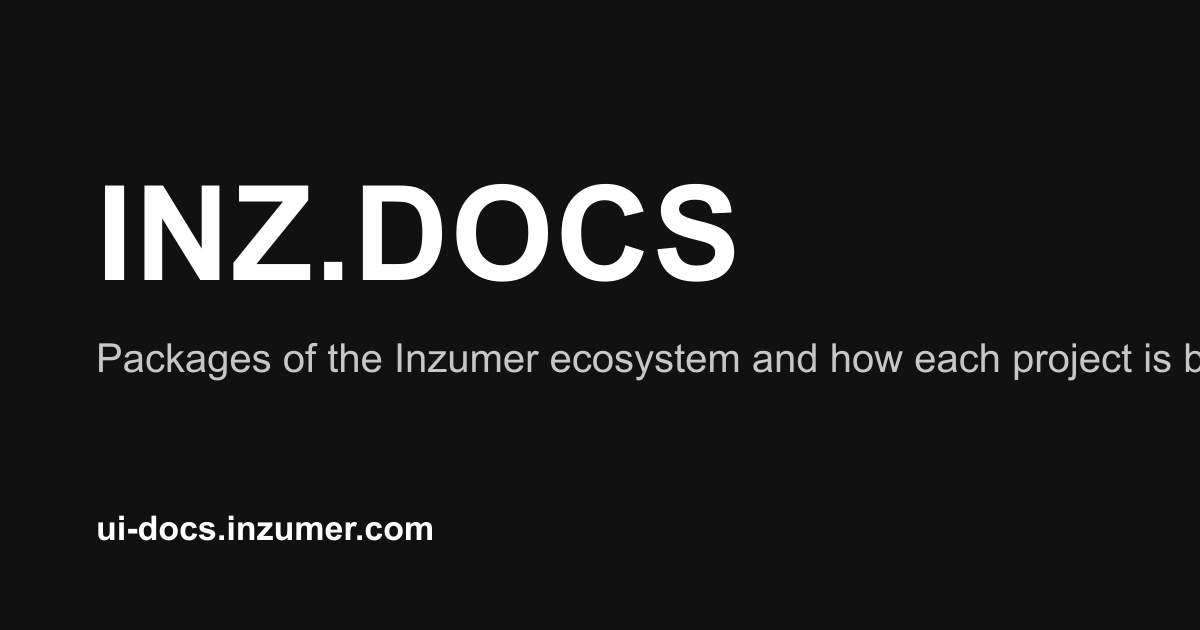
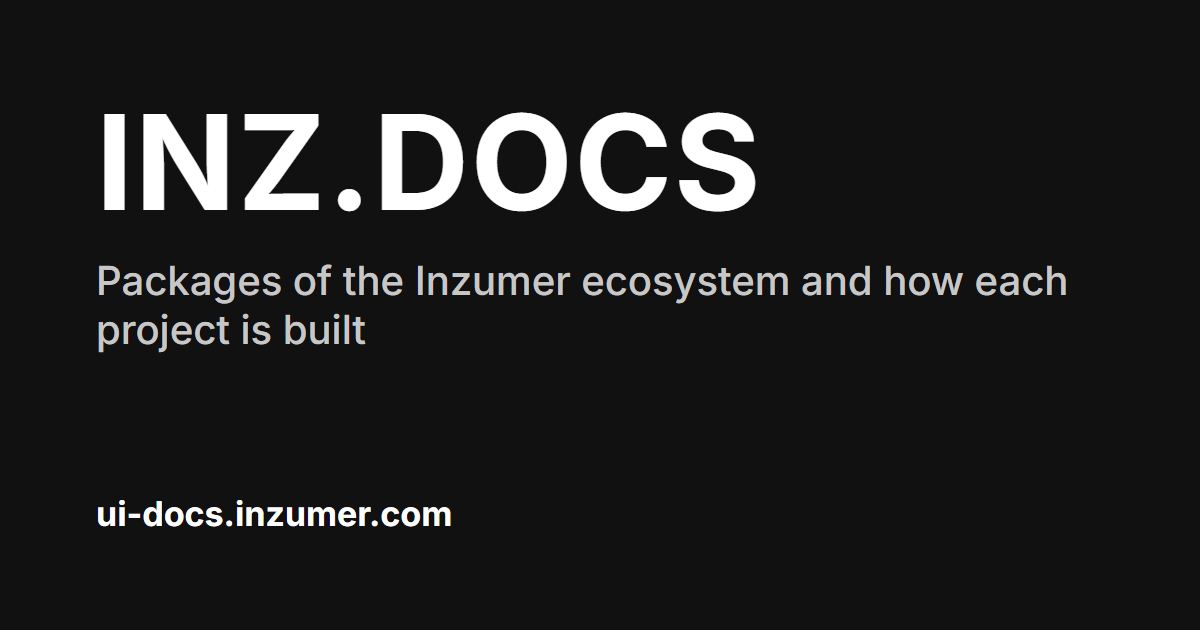
feat: Inter brand font, @inzumer/ci and package pages without consumers

Changed region(s): [[0.0617, 0.181, 1.0, 0.6032], [0.0617, 0.7841, 0.4008, 0.8746]]

diff --git a/src/styles/theme.css b/src/styles/theme.css
@@ -1,5 +1,7 @@
-/* Inzumer: black and white, like the INZ logos. The site title reads as the text logo. */
+/* Inzumer: black and white, like the INZ logos, in Inter like inzumer.com. The site title reads as
+   the text logo. */
 :root {
+  --sl-font: 'Inter', 'Helvetica Neue', Arial, sans-serif;
   --sl-color-accent-low: #2a2a2a;
   --sl-color-accent: #e5e5e5;
   --sl-color-accent-high: #ffffff;
@@ -16,7 +18,7 @@
   border-radius: 8px;
   background: #111111;
   color: #ffffff;
-  font-weight: 800;
+  font-weight: 700;
   letter-spacing: 0.5px;
 }
 

diff --git a/src/content/docs/proyectos/milimon.md b/src/content/docs/proyectos/milimon.md
@@ -7,8 +7,8 @@ Manual de estudio y calculadoras de costos para gastronomía.
 
 | Parte | Repositorio                                                             | Stack                                                    | Paquetes Inzumer                          |
 | ----- | ----------------------------------------------------------------------- | -------------------------------------------------------- | ----------------------------------------- |
-| Web   | [milimon-frontend-web](https://github.com/inzumer/milimon-frontend-web) | Astro 7 + islas de React 19, Tailwind 4, Keystatic (CMS) | `ui-library`, `tokens`, `inzumer-ci`      |
-| API   | [milimon-backend-nest](https://github.com/inzumer/milimon-backend-nest) | NestJS 12, TypeORM, Postgres (Neon)                      | `milimon-emails`, `inzumer-ci`            |
+| Web   | [milimon-frontend-web](https://github.com/inzumer/milimon-frontend-web) | Astro 7 + islas de React 19, Tailwind 4, Keystatic (CMS) | `ui-library`, `tokens`, `ci`              |
+| API   | [milimon-backend-nest](https://github.com/inzumer/milimon-backend-nest) | NestJS 12, TypeORM, Postgres (Neon)                      | `milimon-emails`, `ci`                    |
 | Mails | [milimon-emails-react](https://github.com/inzumer/milimon-emails-react) | React Email                                              | `email`, `eslint`, `prettier`, `tsconfig` |
 | Docs  | [milimon-docs](https://github.com/inzumer/milimon-docs)                 | Starlight                                                | —                                         |
 
@@ -16,4 +16,4 @@ Manual de estudio y calculadoras de costos para gastronomía.
   Cloudflare, su API en Render y su base en Neon.
 - **CMS**: Keystatic en staging, con pantalla partida y vista previa en vivo; cada guardado se
   publica en `dev` como un commit.
-- **Releases**: gitflow semanal con los workflows de [inzumer-ci](/paquetes/ci/).
+- **Releases**: gitflow semanal con los workflows de [`@inzumer/ci`](/paquetes/ci/).

diff --git a/src/content/docs/paquetes/index.md b/src/content/docs/paquetes/index.md
@@ -11,13 +11,10 @@ flowchart LR
   tokens["@inzumer/tokens"] --> ui["@inzumer/ui-library"]
   tokens --> native["librería mobile"]
   tokens --> email["@inzumer/email"]
-  email --> milimonEmails["@inzumer/milimon-emails"]
-  ui --> milimon["Milimon (web)"]
-  milimonEmails --> api["Milimon (API)"]
   eslint["@inzumer/eslint"] -.-> ui
   prettier["@inzumer/prettier"] -.-> ui
   tsconfig["@inzumer/tsconfig"] -.-> ui
-  ci["inzumer-ci"] -.-> milimon
+  ci["@inzumer/ci"] -.-> ui
 ```
 
 | Paquete                                        | Para qué                                            | Storybook                                              |
@@ -31,5 +28,5 @@ flowchart LR
 | [`@inzumer/tsconfig`](/paquetes/tsconfig/)     | Configuraciones de TypeScript                       | —                                                      |
 | [`inzumer-ci`](/paquetes/ci/)                  | Workflows de GitHub Actions reutilizables           | —                                                      |
 
-Las líneas punteadas son herramientas de desarrollo: todos los repos las usan, no solo los que
-aparecen en el diagrama.
+Las líneas punteadas son herramientas de desarrollo: las usan todos los repos. Cómo se combinan en
+cada producto está en **Proyectos**.

diff --git a/src/content/docs/paquetes/ci.md b/src/content/docs/paquetes/ci.md
@@ -1,10 +1,10 @@
 ---
-title: 'inzumer-ci'
+title: '@inzumer/ci'
 description: 'Workflows reutilizables de GitHub Actions: CI, seguridad, releases y accesibilidad.'
 ---
 
-Repositorio: [inzumer-ci](https://github.com/inzumer/inzumer-ci). Cada repo los llama con
-`uses: inzumer/inzumer-ci/.github/workflows/<workflow>.yml@v2`.
+Repositorio: [inzumer-ci](https://github.com/inzumer/inzumer-ci). No se instala desde npm: cada
+repo llama a los workflows con `uses: inzumer/inzumer-ci/.github/workflows/<workflow>.yml@v2`.
 
 | Workflow                                                                             | Qué hace                                                                    |
 | ------------------------------------------------------------------------------------ | --------------------------------------------------------------------------- |

diff --git a/src/content/docs/practicas/publicacion.md b/src/content/docs/practicas/publicacion.md
@@ -12,5 +12,5 @@ description: 'Dónde se publica cada cosa y cómo se comparte.'
 
 - Todo se publica en **GitHub Pages** desde `main`; el DNS de `inzumer.com` está en Vercel, con
   un CNAME por subdominio hacia `inzumer.github.io`.
-- Cada sitio tiene su **logo de texto** (INZ.UI, INZ.EMAILS, INZ.DOCS…), favicons con el logo INZ y
+- Cada sitio tiene su **logo de texto** (INZ.UI, INZ.EMAILS, INZ.DOCS…) en Inter, la fuente de inzumer.com,, favicons con el logo INZ y
   **OpenGraph completo** (título, descripción, URL e imagen de 1200×630) para compartirlo.

diff --git a/src/content/docs/paquetes/email.md b/src/content/docs/paquetes/email.md
@@ -23,5 +23,4 @@ pnpm add @inzumer/email react react-dom
   (`banner`, `main`, `contentinfo`).
 - Los íconos de redes son PNG (los clientes de mail no muestran SVG), de la misma familia que los de
   `@inzumer/ui-library`.
-- Cada producto arma sus mails con estos componentes: por ejemplo
-  [`@inzumer/milimon-emails`](/proyectos/milimon/).
+- Cada producto arma sus mails en su propio paquete, con estos componentes como base.
